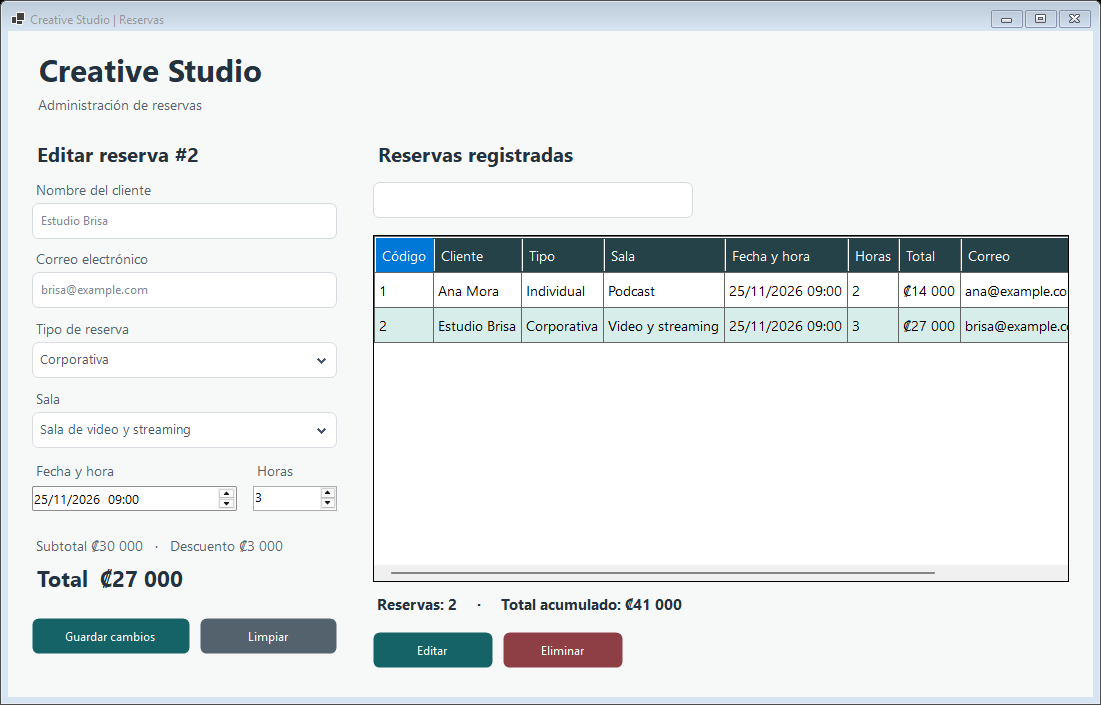
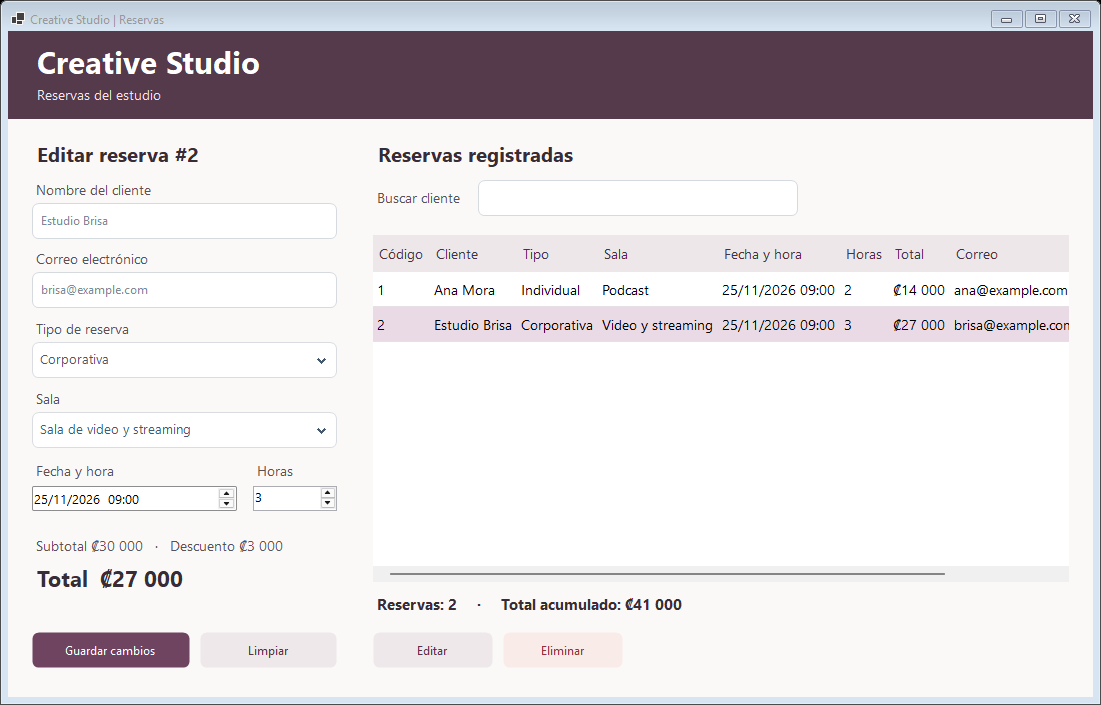
Ajusta los colores y la distribución del formulario de reservas

diff --git a/Presentacion/FrmReservas.Designer.cs b/Presentacion/FrmReservas.Designer.cs
@@ -7,6 +7,8 @@ partial class FrmReservas
 {
     private System.ComponentModel.IContainer? components;
     private Label titulo = null!;
+    private Panel encabezado = null!;
+    private Label lblBuscar = null!;
     private Label subtitulo = null!;
     private Label edicion = null!;
     private Label lblNombre = null!;
@@ -45,7 +47,7 @@ partial class FrmReservas
         errores = new ErrorProvider(components);
         SuspendLayout();
         Text = "Creative Studio | Reservas";
-        BackColor = Color.FromArgb(246, 249, 248);
+        BackColor = Color.FromArgb(251, 249, 247);
         Font = new Font("Segoe UI", 10F);
         AutoScaleMode = AutoScaleMode.Font;
         AutoScaleDimensions = new SizeF(7F, 17F);
@@ -54,37 +56,43 @@ partial class FrmReservas
         StartPosition = FormStartPosition.CenterScreen;
         titulo = new Label();
         titulo.Name = "titulo";
-        titulo.Location = new Point(24, 17);
+        titulo.Location = new Point(22, 9);
         titulo.Size = new Size(390, 44);
         titulo.Text = "Creative Studio";
-        titulo.ForeColor = Color.FromArgb(36, 49, 63);
+        titulo.ForeColor = Color.White;
         titulo.Font = new Font("Segoe UI", 23F, FontStyle.Bold);
-        Controls.Add(titulo);
+        encabezado = new Panel();
+        encabezado.Name = "encabezado";
+        encabezado.Size = new Size(1085, 88);
+        encabezado.Dock = DockStyle.Top;
+        encabezado.BackColor = Color.FromArgb(85, 58, 76);
+        encabezado.Controls.Add(titulo);
+        Controls.Add(encabezado);
 
         subtitulo = new Label();
         subtitulo.Name = "subtitulo";
-        subtitulo.Location = new Point(26, 64);
+        subtitulo.Location = new Point(25, 54);
         subtitulo.Size = new Size(380, 24);
-        subtitulo.Text = "Administración de reservas";
-        subtitulo.ForeColor = Color.FromArgb(84, 98, 110);
+        subtitulo.Text = "Reservas del estudio";
+        subtitulo.ForeColor = Color.FromArgb(243, 230, 236);
         subtitulo.Font = new Font("Segoe UI", 10F, FontStyle.Regular);
-        Controls.Add(subtitulo);
+        encabezado.Controls.Add(subtitulo);
 
         edicion = new Label();
         edicion.Name = "edicion";
         edicion.Location = new Point(24, 108);
-        edicion.Size = new Size(380, 31);
+        edicion.Size = new Size(305, 31);
         edicion.Text = "Nueva reserva";
-        edicion.ForeColor = Color.FromArgb(36, 49, 63);
+        edicion.ForeColor = Color.FromArgb(56, 45, 55);
         edicion.Font = new Font("Segoe UI", 15F, FontStyle.Bold);
         Controls.Add(edicion);
 
         lblNombre = new Label();
         lblNombre.Name = "lblNombre";
         lblNombre.Location = new Point(24, 149);
-        lblNombre.Size = new Size(350, 21);
+        lblNombre.Size = new Size(305, 21);
         lblNombre.Text = "Nombre del cliente";
-        lblNombre.ForeColor = Color.FromArgb(84, 98, 110);
+        lblNombre.ForeColor = Color.FromArgb(90, 81, 87);
         lblNombre.Font = new Font("Segoe UI", 10F, FontStyle.Regular);
         Controls.Add(lblNombre);
 
@@ -101,7 +109,7 @@ partial class FrmReservas
         lblCorreo.Location = new Point(24, 218);
         lblCorreo.Size = new Size(310, 22);
         lblCorreo.Text = "Correo electrónico";
-        lblCorreo.ForeColor = Color.FromArgb(84, 98, 110);
+        lblCorreo.ForeColor = Color.FromArgb(90, 81, 87);
         lblCorreo.Font = new Font("Segoe UI", 10F, FontStyle.Regular);
         Controls.Add(lblCorreo);
 
@@ -118,7 +126,7 @@ partial class FrmReservas
         lblTipo.Location = new Point(24, 288);
         lblTipo.Size = new Size(295, 22);
         lblTipo.Text = "Tipo de reserva";
-        lblTipo.ForeColor = Color.FromArgb(84, 98, 110);
+        lblTipo.ForeColor = Color.FromArgb(90, 81, 87);
         lblTipo.Font = new Font("Segoe UI", 10F, FontStyle.Regular);
         Controls.Add(lblTipo);
 
@@ -135,7 +143,7 @@ partial class FrmReservas
         lblSala.Location = new Point(24, 358);
         lblSala.Size = new Size(295, 22);
         lblSala.Text = "Sala";
-        lblSala.ForeColor = Color.FromArgb(84, 98, 110);
+        lblSala.ForeColor = Color.FromArgb(90, 81, 87);
         lblSala.Font = new Font("Segoe UI", 10F, FontStyle.Regular);
         Controls.Add(lblSala);
 
@@ -152,7 +160,7 @@ partial class FrmReservas
         lblFecha.Location = new Point(24, 430);
         lblFecha.Size = new Size(210, 22);
         lblFecha.Text = "Fecha y hora";
-        lblFecha.ForeColor = Color.FromArgb(84, 98, 110);
+        lblFecha.ForeColor = Color.FromArgb(90, 81, 87);
         lblFecha.Font = new Font("Segoe UI", 10F, FontStyle.Regular);
         Controls.Add(lblFecha);
 
@@ -170,7 +178,7 @@ partial class FrmReservas
         lblHoras.Location = new Point(245, 430);
         lblHoras.Size = new Size(85, 22);
         lblHoras.Text = "Horas";
-        lblHoras.ForeColor = Color.FromArgb(84, 98, 110);
+        lblHoras.ForeColor = Color.FromArgb(90, 81, 87);
         lblHoras.Font = new Font("Segoe UI", 10F, FontStyle.Regular);
         Controls.Add(lblHoras);
 
@@ -188,7 +196,7 @@ partial class FrmReservas
         detalle.Location = new Point(24, 505);
         detalle.Size = new Size(330, 23);
         detalle.Text = "";
-        detalle.ForeColor = Color.FromArgb(84, 98, 110);
+        detalle.ForeColor = Color.FromArgb(90, 81, 87);
         detalle.Font = new Font("Segoe UI", 10F, FontStyle.Regular);
         Controls.Add(detalle);
 
@@ -197,28 +205,28 @@ partial class FrmReservas
         importe.Location = new Point(24, 532);
         importe.Size = new Size(330, 33);
         importe.Text = "";
-        importe.ForeColor = Color.FromArgb(36, 49, 63);
+        importe.ForeColor = Color.FromArgb(56, 45, 55);
         importe.Font = new Font("Segoe UI", 16F, FontStyle.Bold);
         Controls.Add(importe);
 
         guardar = new Guna2Button();
         guardar.Name = "guardar";
-        guardar.Location = new Point(24, 587);
+        guardar.Location = new Point(24, 601);
         guardar.Size = new Size(158, 36);
         guardar.Text = "Registrar";
-        guardar.FillColor = Color.FromArgb(22, 99, 103);
+        guardar.FillColor = Color.FromArgb(111, 68, 96);
         guardar.BorderRadius = 6;
         guardar.ForeColor = Color.White;
         Controls.Add(guardar);
 
         nuevo = new Guna2Button();
         nuevo.Name = "nuevo";
-        nuevo.Location = new Point(192, 587);
+        nuevo.Location = new Point(192, 601);
         nuevo.Size = new Size(137, 36);
         nuevo.Text = "Limpiar";
-        nuevo.FillColor = Color.FromArgb(84, 98, 110);
+        nuevo.FillColor = Color.FromArgb(238, 232, 235);
         nuevo.BorderRadius = 6;
-        nuevo.ForeColor = Color.White;
+        nuevo.ForeColor = Color.FromArgb(82, 52, 70);
         Controls.Add(nuevo);
 
         lista = new Label();
@@ -226,13 +234,20 @@ partial class FrmReservas
         lista.Location = new Point(365, 108);
         lista.Size = new Size(400, 36);
         lista.Text = "Reservas registradas";
-        lista.ForeColor = Color.FromArgb(36, 49, 63);
+        lista.ForeColor = Color.FromArgb(56, 45, 55);
         lista.Font = new Font("Segoe UI", 15F, FontStyle.Bold);
         Controls.Add(lista);
 
         buscar = new Guna2TextBox();
         buscar.Name = "buscar";
-        buscar.Location = new Point(365, 151);
+        lblBuscar = new Label();
+        lblBuscar.Name = "lblBuscar";
+        lblBuscar.Text = "Buscar cliente";
+        lblBuscar.Location = new Point(365, 157);
+        lblBuscar.Size = new Size(100, 25);
+        lblBuscar.ForeColor = Color.FromArgb(90, 81, 87);
+        Controls.Add(lblBuscar);
+        buscar.Location = new Point(470, 149);
         buscar.Size = new Size(320, 36);
         buscar.BorderRadius = 6;
         buscar.PlaceholderText = "Buscar por nombre del cliente";
@@ -244,7 +259,10 @@ partial class FrmReservas
         tabla.Size = new Size(696, 347);
         tabla.Anchor = AnchorStyles.Top | AnchorStyles.Bottom | AnchorStyles.Left | AnchorStyles.Right;
         tabla.BackgroundColor = Color.White;
-        tabla.BorderStyle = BorderStyle.FixedSingle;
+        tabla.BorderStyle = BorderStyle.None;
+        tabla.CellBorderStyle = DataGridViewCellBorderStyle.SingleHorizontal;
+        tabla.ColumnHeadersBorderStyle = DataGridViewHeaderBorderStyle.None;
+        tabla.GridColor = Color.FromArgb(230, 223, 227);
         tabla.AllowUserToAddRows = false;
         tabla.AllowUserToDeleteRows = false;
         tabla.ReadOnly = true;
@@ -262,7 +280,7 @@ partial class FrmReservas
         resumen.Location = new Point(365, 563);
         resumen.Size = new Size(666, 28);
         resumen.Text = "";
-        resumen.ForeColor = Color.FromArgb(36, 49, 63);
+        resumen.ForeColor = Color.FromArgb(56, 45, 55);
         resumen.Font = new Font("Segoe UI", 11F, FontStyle.Bold);
         Controls.Add(resumen);
 
@@ -271,9 +289,9 @@ partial class FrmReservas
         editar.Location = new Point(365, 601);
         editar.Size = new Size(120, 36);
         editar.Text = "Editar";
-        editar.FillColor = Color.FromArgb(22, 99, 103);
+        editar.FillColor = Color.FromArgb(238, 232, 235);
         editar.BorderRadius = 6;
-        editar.ForeColor = Color.White;
+        editar.ForeColor = Color.FromArgb(82, 52, 70);
         Controls.Add(editar);
 
         eliminar = new Guna2Button();
@@ -281,17 +299,20 @@ partial class FrmReservas
         eliminar.Location = new Point(495, 601);
         eliminar.Size = new Size(120, 36);
         eliminar.Text = "Eliminar";
-        eliminar.FillColor = Color.FromArgb(141, 63, 69);
+        eliminar.FillColor = Color.FromArgb(249, 235, 232);
         eliminar.BorderRadius = 6;
-        eliminar.ForeColor = Color.White;
+        eliminar.ForeColor = Color.FromArgb(139, 55, 53);
         Controls.Add(eliminar);
         errores.ContainerControl = this;
         resumen.Anchor = AnchorStyles.Bottom | AnchorStyles.Left;
         editar.Anchor = AnchorStyles.Bottom | AnchorStyles.Left;
         eliminar.Anchor = AnchorStyles.Bottom | AnchorStyles.Left;
-        tabla.ColumnHeadersDefaultCellStyle.BackColor = Color.FromArgb(36, 66, 72);
-        tabla.ColumnHeadersDefaultCellStyle.ForeColor = Color.White;
-        tabla.DefaultCellStyle.SelectionBackColor = Color.FromArgb(214, 237, 233);
+        tabla.ColumnHeadersDefaultCellStyle.BackColor = Color.FromArgb(237, 231, 234);
+        tabla.ColumnHeadersDefaultCellStyle.ForeColor = Color.FromArgb(72, 49, 64);
+        tabla.ColumnHeadersDefaultCellStyle.SelectionBackColor = Color.FromArgb(237, 231, 234);
+        tabla.ColumnHeadersDefaultCellStyle.SelectionForeColor = Color.FromArgb(72, 49, 64);
+        tabla.AlternatingRowsDefaultCellStyle.BackColor = Color.FromArgb(251, 248, 250);
+        tabla.DefaultCellStyle.SelectionBackColor = Color.FromArgb(234, 218, 229);
         tabla.DefaultCellStyle.SelectionForeColor = Color.Black;
         tabla.RowTemplate.Height = 35;
         ResumeLayout(false);
